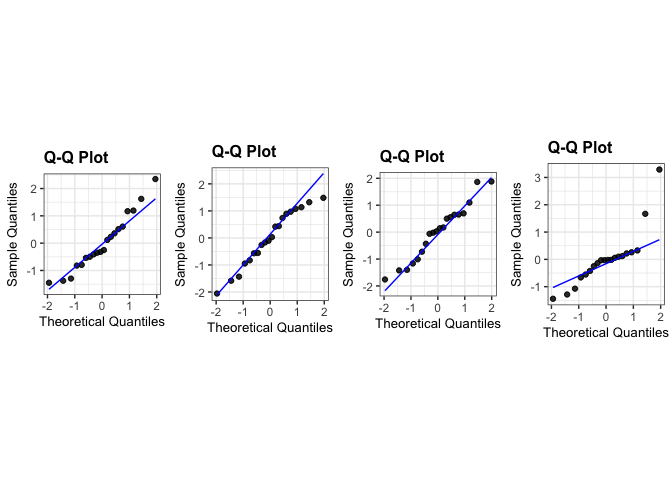
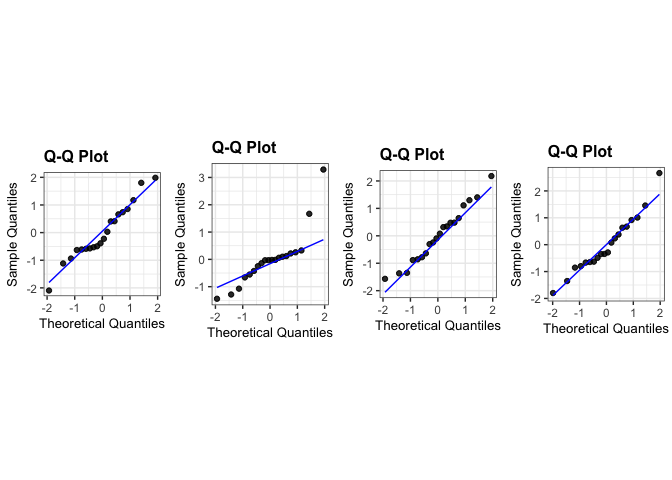
version 0.4.0 release

diff --git a/README.md b/README.md
@@ -223,6 +223,6 @@ resid_calibrate(
 )
 ```
 
-    ## [1] "Real residuals are in column 4"
+    ## [1] "Real residuals are in column 2"
 
 ![](inst/figures/readme-unnamed-chunk-9-1.png)<!-- -->
